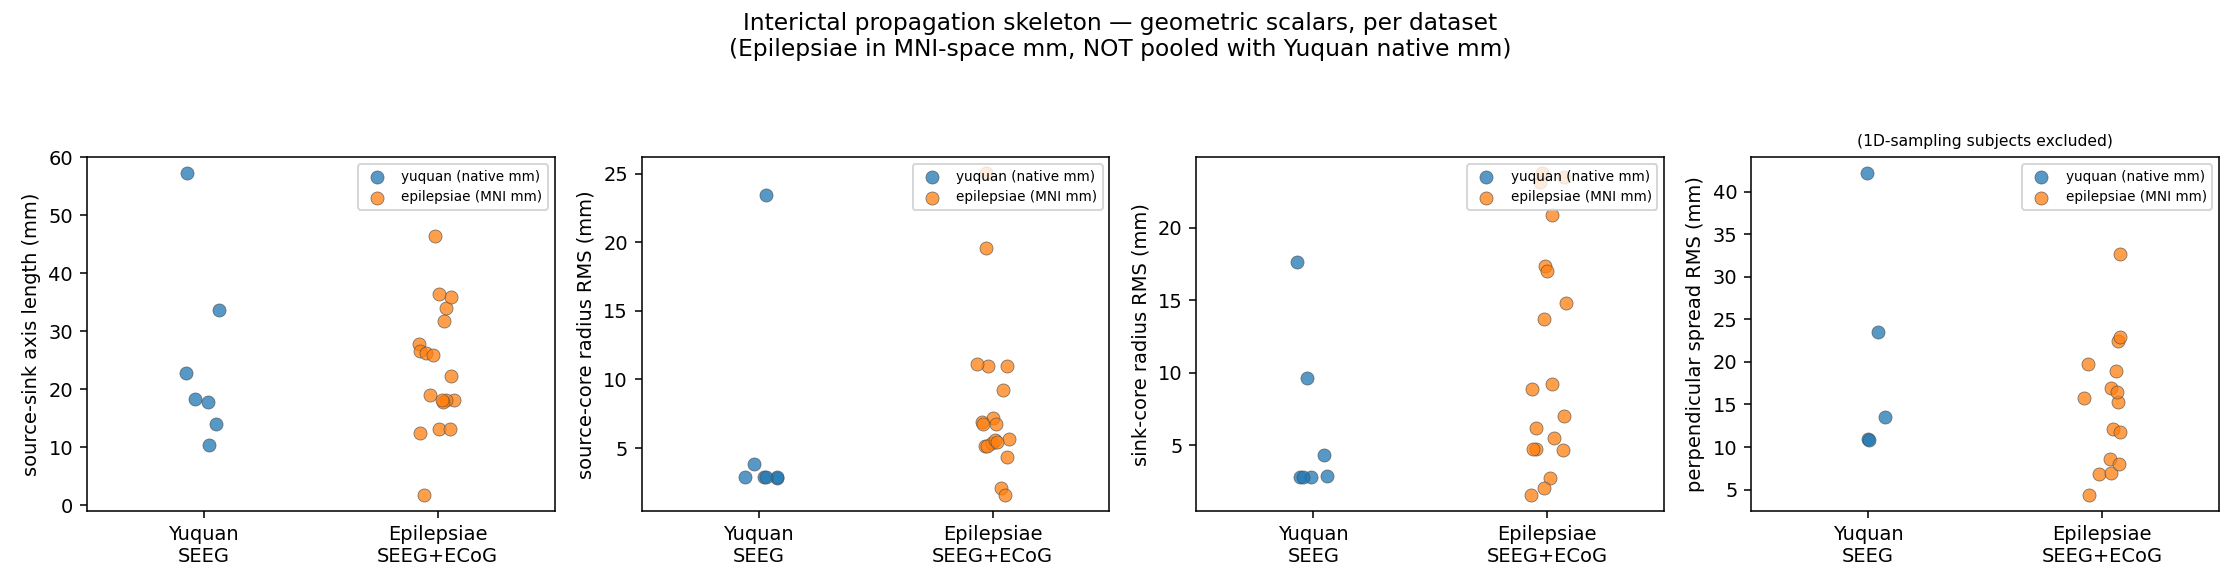
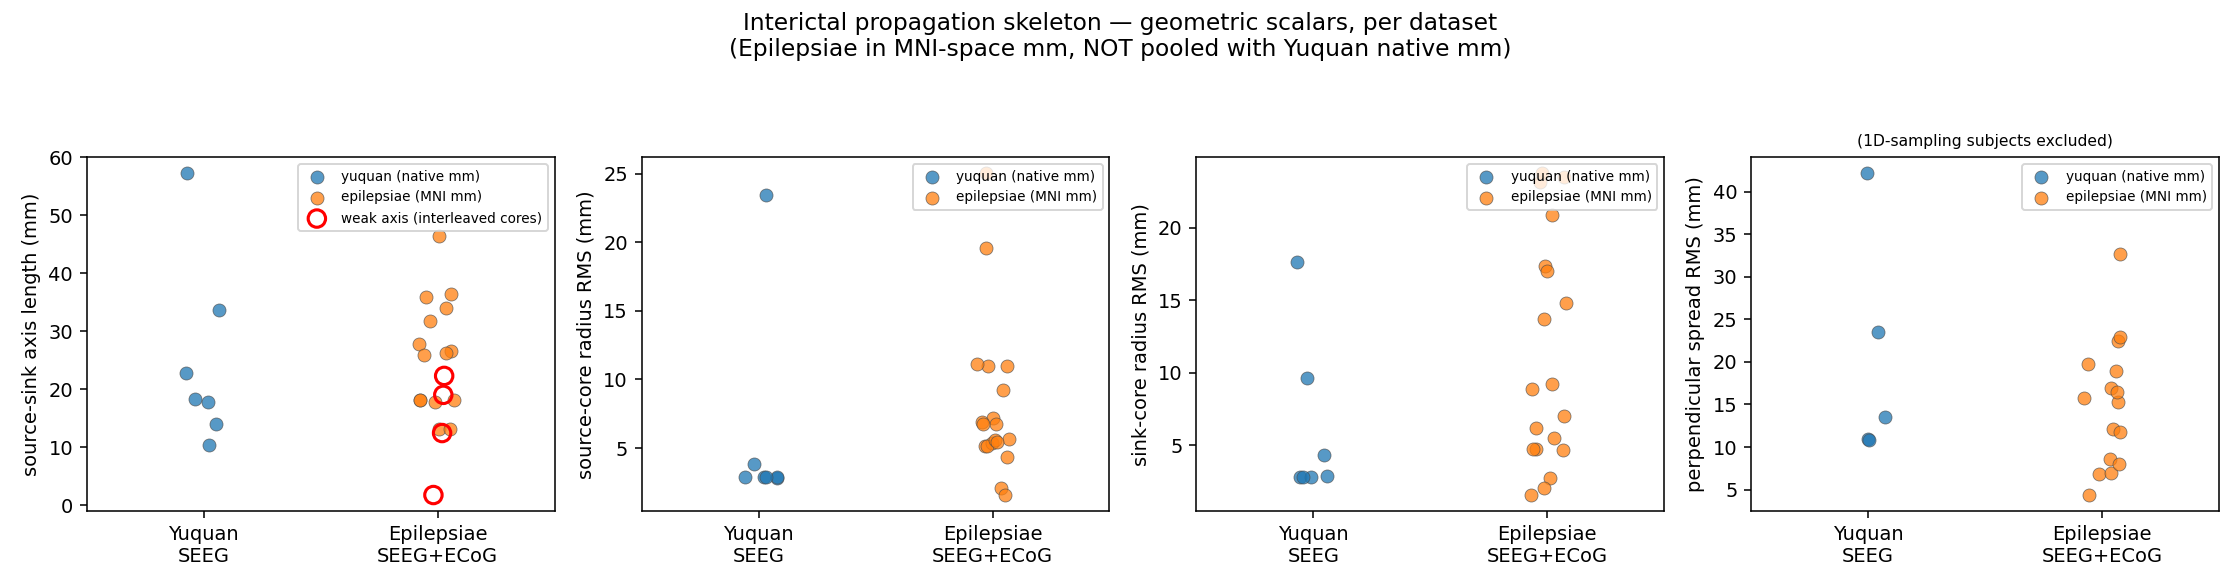
fix(skeleton-geom): real weak-axis flag (interleaved cores), honest doc §2 (no false compactness claim), Fig2 weak-axis marking

diff --git a/scripts/plot_propagation_skeleton_geometry.py b/scripts/plot_propagation_skeleton_geometry.py
@@ -136,21 +136,34 @@ panels = [
 ]
 rng = np.random.default_rng(0)
 fig, axes = plt.subplots(1, 4, figsize=(16, 4.2))
-for ax, (lab, getter, measurable_only) in zip(axes, panels):
+for p_idx, (ax, (lab, getter, measurable_only)) in enumerate(zip(axes, panels)):
+    is_axis_panel = (p_idx == 0)  # only the axis-length panel marks weak-axis
     for i, (ds, color) in enumerate(DATASETS):
-        vals = []
+        normal_vals, weak_vals = [], []
         for r in ok:
             if r["dataset"] != ds:
                 continue
             if measurable_only and not r.get("perp_width_measurable"):
                 continue
             v = getter(r)
-            if v is not None and np.isfinite(v):
-                vals.append(v)
-        jitter = rng.uniform(-0.08, 0.08, len(vals))
-        ax.scatter(np.full(len(vals), i) + jitter, vals, c=color, alpha=0.75,
-                   s=45, edgecolors="0.3", linewidths=0.4,
+            if v is None or not np.isfinite(v):
+                continue
+            # Interleaved source/sink cores -> centroid cancellation -> the
+            # axis_length is weakly constrained; flag those points so the reader
+            # does not read the short axes as compact templates.
+            if is_axis_panel and r.get("weak_axis"):
+                weak_vals.append(v)
+            else:
+                normal_vals.append(v)
+        jitter = rng.uniform(-0.08, 0.08, len(normal_vals))
+        ax.scatter(np.full(len(normal_vals), i) + jitter, normal_vals, c=color,
+                   alpha=0.75, s=45, edgecolors="0.3", linewidths=0.4,
                    label=f"{ds} {_DS_TAG[ds]}")
+        if weak_vals:
+            wj = rng.uniform(-0.08, 0.08, len(weak_vals))
+            ax.scatter(np.full(len(weak_vals), i) + wj, weak_vals,
+                       facecolors="none", edgecolors="red", linewidths=1.6,
+                       s=80, label="weak axis (interleaved cores)")
     ax.set_xticks([0, 1])
     ax.set_xticklabels(["Yuquan\nSEEG", "Epilepsiae\nSEEG+ECoG"])
     ax.set_xlim(-0.5, 1.5)

diff --git a/scripts/run_propagation_skeleton_geometry.py b/scripts/run_propagation_skeleton_geometry.py
@@ -182,6 +182,15 @@ def process_subject(ds, subj):
             "shaft": str(G.parse_shaft(names[i])[0]),
         })
     rec["channels"] = channels
+    # Weak-axis flag: when a sink-core channel projects to a SMALLER along-axis
+    # position than some source-core channel, the cores interleave along the axis
+    # -> source/sink centroids collapse toward each other -> axis_length cancels
+    # and is unreliable. This is the real split-core detector; degenerate_axis
+    # (L<1e-9) does NOT catch it. Downstream model code should gate on this.
+    src_along = [c["along_axis_mm"] for c in channels if c["role"] == "source_core"]
+    snk_along = [c["along_axis_mm"] for c in channels if c["role"] == "sink_core"]
+    weak_axis = bool(src_along and snk_along and (min(snk_along) < max(src_along)))
+    rec["weak_axis"] = weak_axis
     rec.update({
         "source_radius": G.core_radii(coords[cores["source_idx"]],
                                       np.array(fr["source_centroid"])),
@@ -256,6 +265,7 @@ def main():
         d["n"] += 1
         if r.get("eligibility_tier") in ("primary", "fallback") and "axis_length_mm" in r:
             d["axis_length_mm"].append(r["axis_length_mm"])
+    weak_recs = [r for r in ok if r.get("weak_axis")]
     cohort_summary = {
         "n_processed": len(recs), "n_ok": len(ok),
         "n_error": len(errored),
@@ -264,6 +274,8 @@ def main():
         "excluded_bad_data": [f"{ds}:{subj}" for ds, subj in excluded],
         "phantom_core_violations":
             int(sum(bool(r.get("phantom_core_violation")) for r in ok)),
+        "weak_axis": len(weak_recs),
+        "weak_axis_subjects": [f"{r['dataset']}:{r['subject']}" for r in weak_recs],
         "tiers": tiers,
         "sampling_geometry": {
             g: int(sum(r.get("sampling_geometry", {}).get("geometry") == g for r in ok))

diff --git a/docs/archive/topic4/sef_hfo/propagation_skeleton_geometry_2026-06-08.md b/docs/archive/topic4/sef_hfo/propagation_skeleton_geometry_2026-06-08.md
@@ -35,7 +35,7 @@
 
 **采样几何（`sampling_geometry`）**：21 distributed（跨多根杆，可测横向铺展）/ 5 1D（单根电极杆，横向铺展不可测、已排除出横展统计）。
 
-**起止端路由（swap routing）**：12 个被试在跨事件上能稳定看到起止角色互换（7 个候选层 + 5 个严格层）→ 这些用主导聚类那条轴（`template_source=dominant_cluster_*`，9+3=12）；其余 18 个无稳定互换 → 用全程那条轴（`template_source=full_recording`）。
+**起止端路由（swap routing）**：12 个 swap-positive 被试（7 个候选层 + 5 个严格层）路由到主导聚类那条轴（`template_source=dominant_cluster_*`：9 个落 dominant cluster 0 + 3 个落 dominant cluster 1）；其余 18 个无稳定互换的用全程那条轴（`template_source=full_recording`）。上面这 12 / 18 是对全部 30 个 ok 被试计数；其中真正算出几何轴（有 `axis_length_mm`）的子集是 10（swap）+ 16（non-swap）= 26 个。
 
 **phantom 安全**：`phantom_core_violations=0`——没有任何非参与的幽灵通道混进起/止 core。
 
@@ -56,10 +56,11 @@
 
 **起止 core 跨杆情况**：起点 core 跨 >1 根电极杆的有 10/26 个被试，终点 core 跨 >1 根杆的有 12/26 个——再次说明多数传播不是沿单一杆的一维链，而是跨杆铺开。
 
-**起止 core 没有 egregious 裂核**：26 个被试里没有任何一个的起点 core 满足"最大两两距离 > 2.5×RMS 半径"（0/26）——MEB + max-pairwise 这道裂核护栏在位，但数据本身已经相当紧凑，护栏没被触发。
+**"最大两两距离 > 2.5×RMS"这道裂核护栏结构性失效，不能据此断言紧凑**：core 只有 k≤3 个通道，k 点集的"最大两两距离 / RMS 半径"比值有个解析上界 √6≈2.449 < 2.5，所以这个比值**永远不会触发**——0/26 不是"数据相当紧凑/没有裂核"的证据，而是这个判据对 k≤3 的 core 根本无信息量。MEB 与各通道坐标仍按被试保留（`source/sink_radius`、各通道 `along_axis_mm`），但**本队列无法从这个判据断言 core 紧凑性**。
 
-**最短轴个案（不是紧凑模板，是弱约束轴）**：`epilepsiae:635` 轴长仅 1.8 mm。**这条轴短不是因为模板紧**，而是因为它的终点 core 跨在起点两侧——终点 3 个通道里有一个沿轴坐标在 −20.4 mm（落在起点*后方*），把终点重心拉回到几乎与起点重合，所以两个重心间距塌成 1.8 mm；但终点 core 自身 RMS 半径 23.5 mm、最大两两距离 53.3 mm，还有一个内部通道偏离主轴 52 mm。它是 distributed 采样、布尔 `degenerate_axis=false`（这个布尔没抓住"终点 core 空间上不连贯"这种情况），但**这是轴坐标系最不可信的一个个案，axis 长度在这里不能读成"模板紧凑"**。把它作为最短轴离群点保留，但明确改口：不是 compact 模板，是弱约束轴。
-> 注：这一点与本轮上游 prompt 草稿里"a genuinely compact template, not degenerate"的措辞**冲突**；本归档以 per-subject 数据为准（`source/sink_radius`、各通道 `along_axis_mm`），不照搬 prompt 措辞——"compact" 在本文其它地方专指 core 半径（Yuquan 2.9 mm），用它形容 635 的短轴会发生代号坍缩（CLAUDE.md §6.3）。
+**真正的裂核探测：4/26 被试起止 core 沿轴交错（弱约束轴）**：用 `sink_min_along < source_max_along`（即某个汇 core 通道投影到的沿轴位置比某个源 core 通道更靠前）检测起止 core 沿轴交错——这会让源/汇重心互相靠拢、重心间距（=轴长）被抵消，axis_length 不可信。命中 **4/26：`epilepsiae:635 / 620 / 1150 / 583`（全部 Epilepsiae；Yuquan 0/7 干净）**。以 635 为例：终点 3 个通道里有一个沿轴坐标在 −20.4 mm（落在起点*后方*），把终点重心拉回到几乎与起点重合，两个重心间距塌成 1.8 mm。
+
+把 Epilepsiae 轴长中位数**两种口径都报，作为敏感性、不作为更正**：**22.3 mm（全 19 个）** vs **26.3 mm（剔掉这 4 个弱约束轴后的 15 个）**。注意布尔 `degenerate_axis`（L<1e-9）**一个都没抓到**这 4 个（它们 `degenerate_axis=false`）——新增的 `weak_axis` 标志（写进 per_subject + `cohort_summary.weak_axis` / `weak_axis_subjects`）才是下游模型代码应该 gate 的字段。
 
 ---
 

diff --git a/results/topic4_sef_hfo/skeleton_geometry/figures/README.md b/results/topic4_sef_hfo/skeleton_geometry/figures/README.md
@@ -8,7 +8,7 @@
 
 ### skeleton_scalars_by_dataset.png
 
-四联散点，**按数据集分层**：源-汇轴长、源 core 半径RMS、汇 core 半径RMS、参与通道垂向铺展RMS。每点一个被试；Yuquan(native mm)与 Epilepsiae(MNI-space mm)分两列、不混。垂向铺展那一联只画"可测"（非单杆 1D 采样）的被试。
+四联散点，**按数据集分层**：源-汇轴长、源 core 半径RMS、汇 core 半径RMS、参与通道垂向铺展RMS。每点一个被试；Yuquan(native mm)与 Epilepsiae(MNI-space mm)分两列、不混。**轴长那一联（最左）里，起止 core 沿轴交错（`sink_min_along < source_max_along`）的被试用红色空心圈标出**（图例 "weak axis (interleaved cores)"，4/26，全在 Epilepsiae 列）——这些被试源/汇重心相互抵消，轴长被弱约束、不能读成"模板紧凑"。垂向铺展那一联只画"可测"（非单杆 1D 采样）的被试。
 
 **关注点**：Epilepsiae 坐标是 MNI 模板空间 mm（每个头被缩放到模板），与 Yuquan 真解剖 native mm **不能直接比绝对数值**——只看各数据集内部的尺度量级与分布。"垂向铺展"是**参与通道的垂向铺展**，受采样+发放率共同圈住，是一个**下界**，不是"斑块真实宽度"；单杆 1D 被试垂宽不可测、已被排除。
 